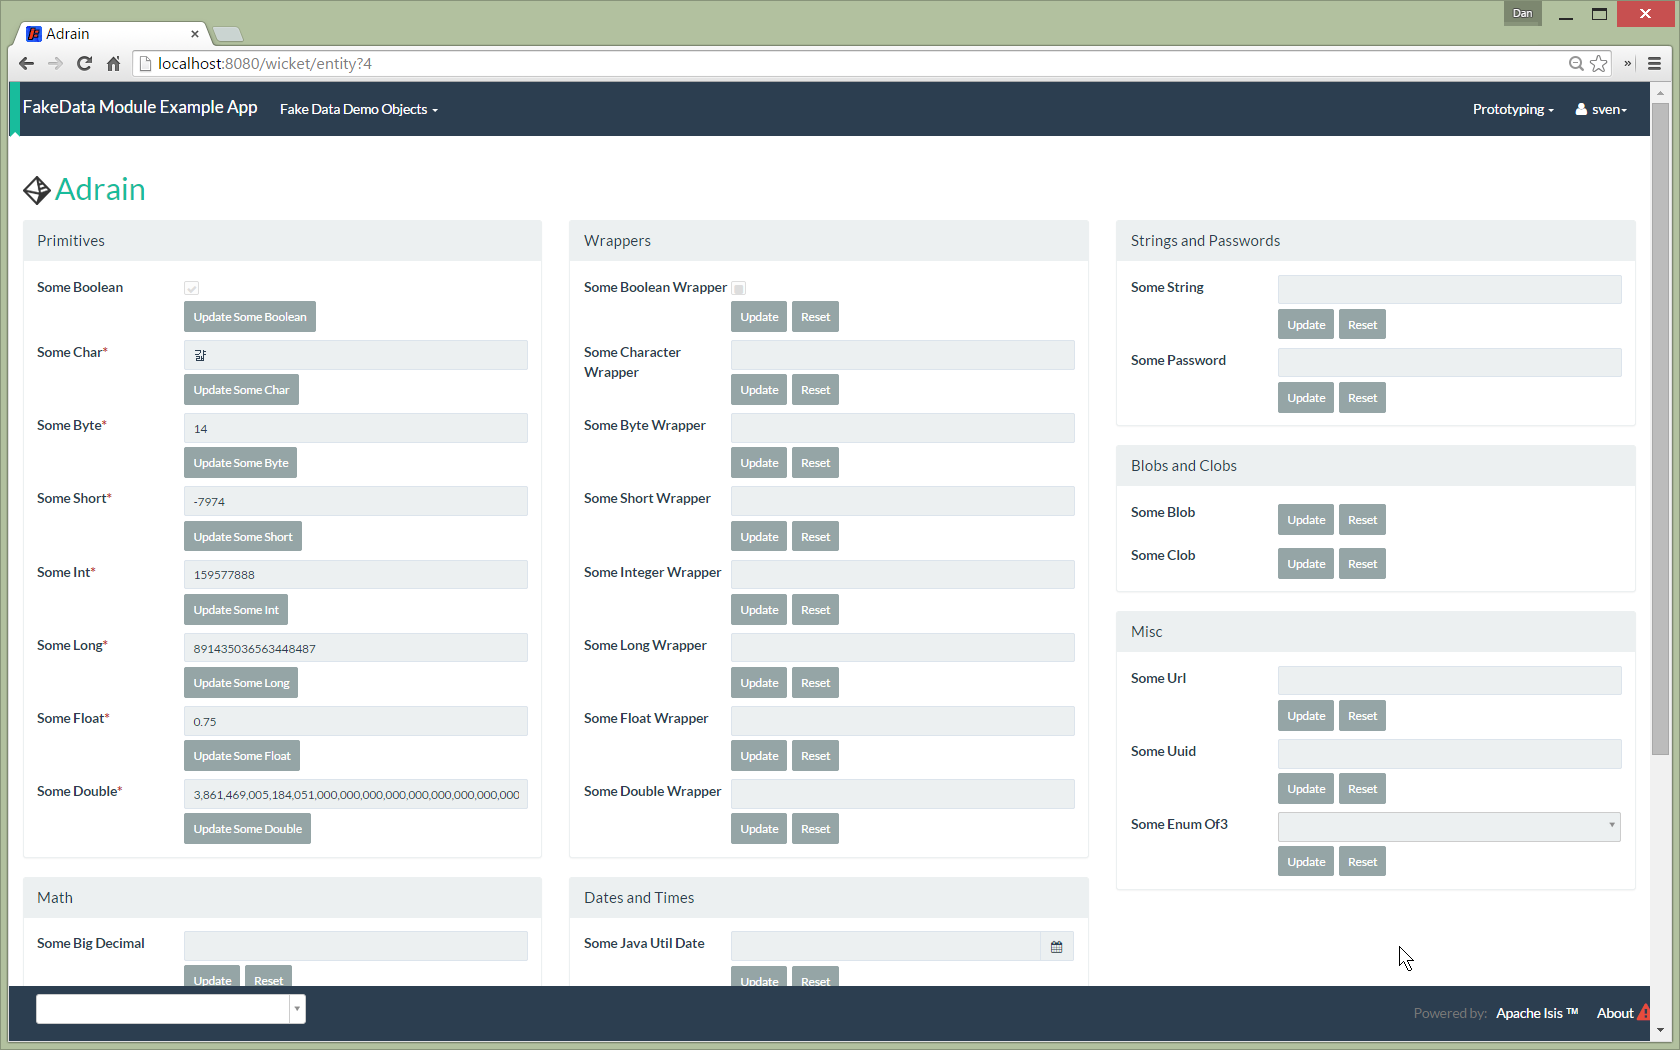
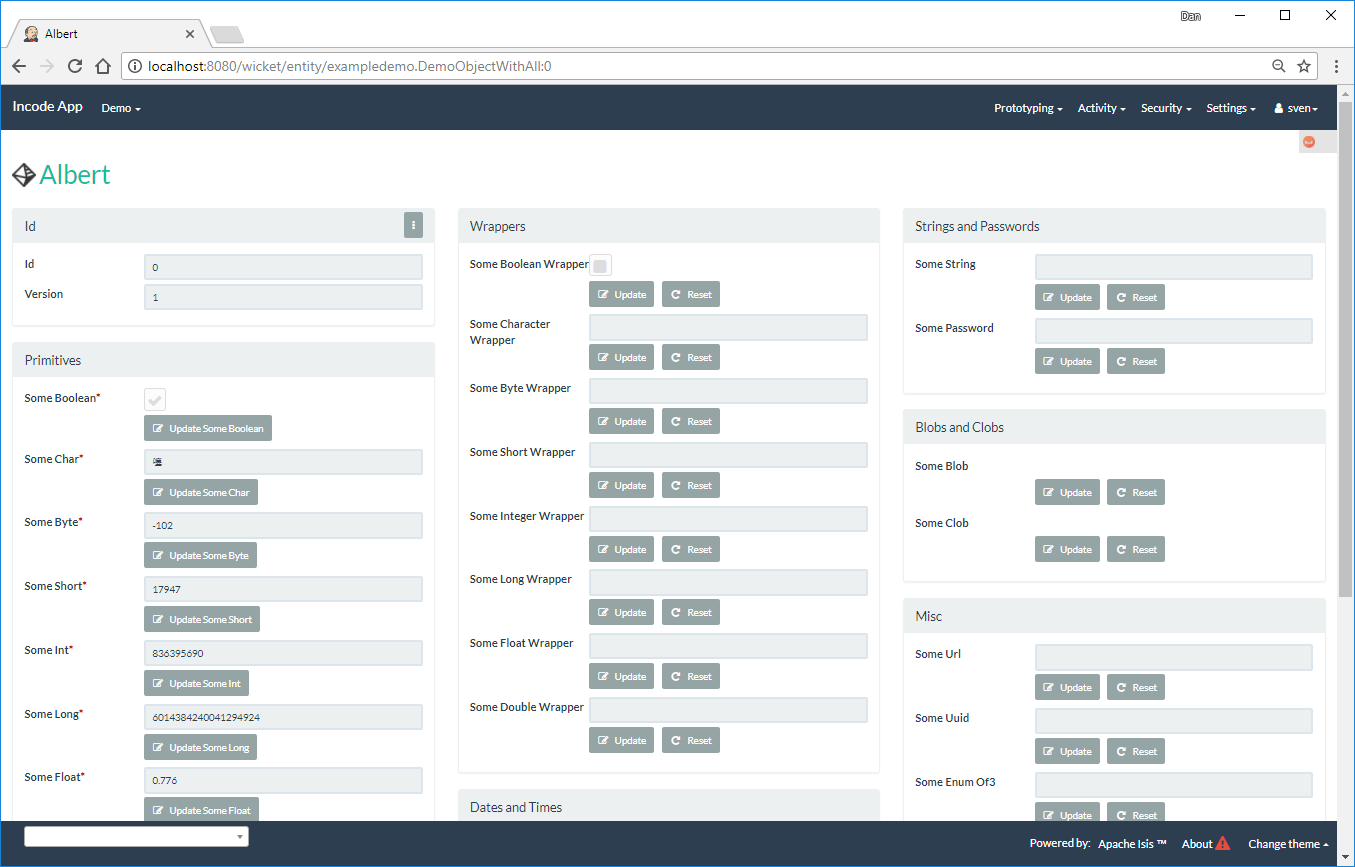
updates screenshots for lib-fakedata

diff --git a/ex/app/quickstart/example/appdefn/src/main/java/org/incode/domainapp/example/app/modules/ExampleDomLibFakeDataAppManifest.java b/ex/app/quickstart/example/appdefn/src/main/java/org/incode/domainapp/example/app/modules/ExampleDomLibFakeDataAppManifest.java
@@ -26,6 +26,7 @@ public class ExampleDomLibFakeDataAppManifest extends AppManifestAbstract {
 
     public static final Builder BUILDER = DomainAppAppManifestAbstract.BUILDER.withAdditionalModules(
 
+            DemoObjectWithAll.class,
             ExampleDomLibFakeDataModule.class,
             FakeDataModule.class
         )
